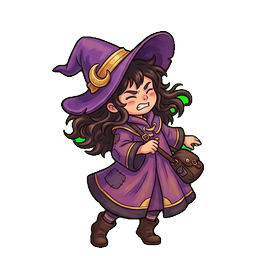
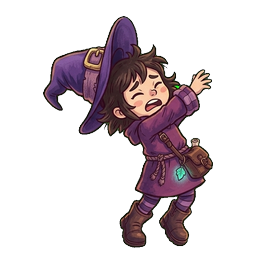
art: yeni sanat yonu ile yenilenen gorseller

diff --git a/sw.js b/sw.js
@@ -1,5 +1,5 @@
 // Çevrimdışı çalışma: kod ve sayfa önce ağdan (güncel sürüm), görseller önce önbellekten.
-const CACHE = 'hexling-v168';
+const CACHE = 'hexling-v169';
 const CORE = ['index.html', 'manifest.webmanifest', 'dist/main.js', 'dist/minis.js', 'dist/game.js', 'dist/data.js', 'dist/audio.js', 'dist/settings.js', 'dist/i18n.js', 'dist/scenery.js', 'dist/version.js', 'dist/billing.js', 'dist/ads.js', 'dist/fight.js', 'dist/hof.js', 'dist/house.js', 'dist/meta.js', 'dist/quests.js', 'dist/story.js', 'dist/tiger.js', 'dist/notify.js', 'dist/mine.js', 'dist/mine3d.js', 'vendor/three.min.js', 'assets/manifest.json', 'assets/title_bg.jpg', 'assets/arena_bg.jpg', 'icons/icon-192.png'];
 
 self.addEventListener('install', (e) => {
